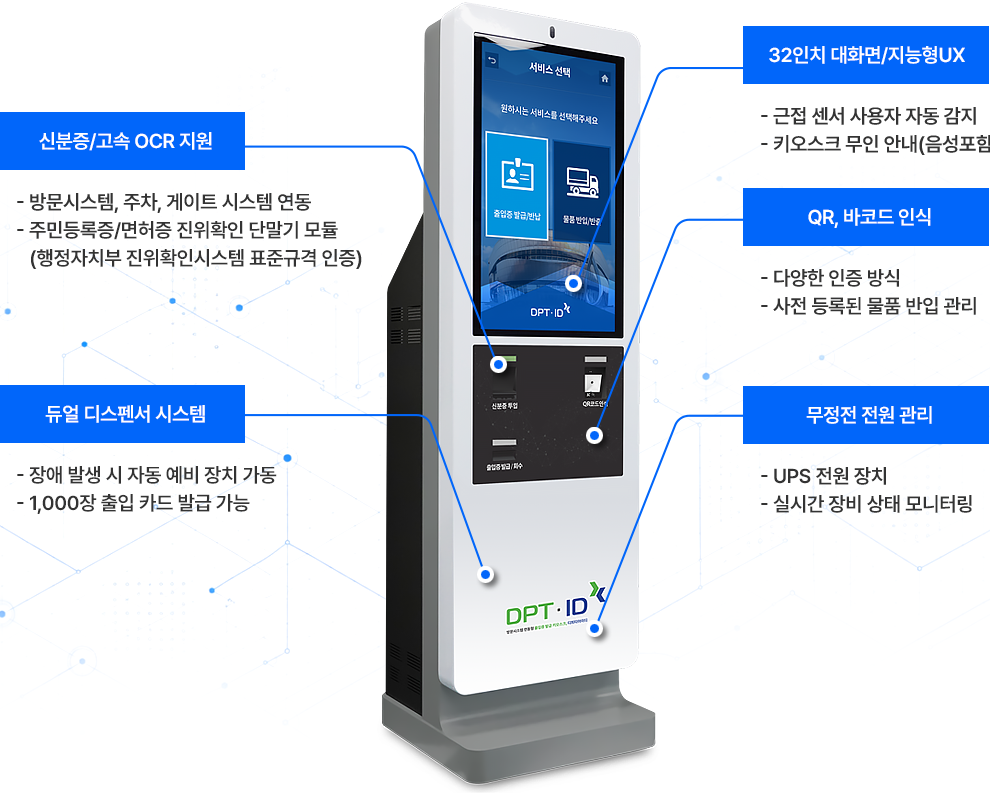
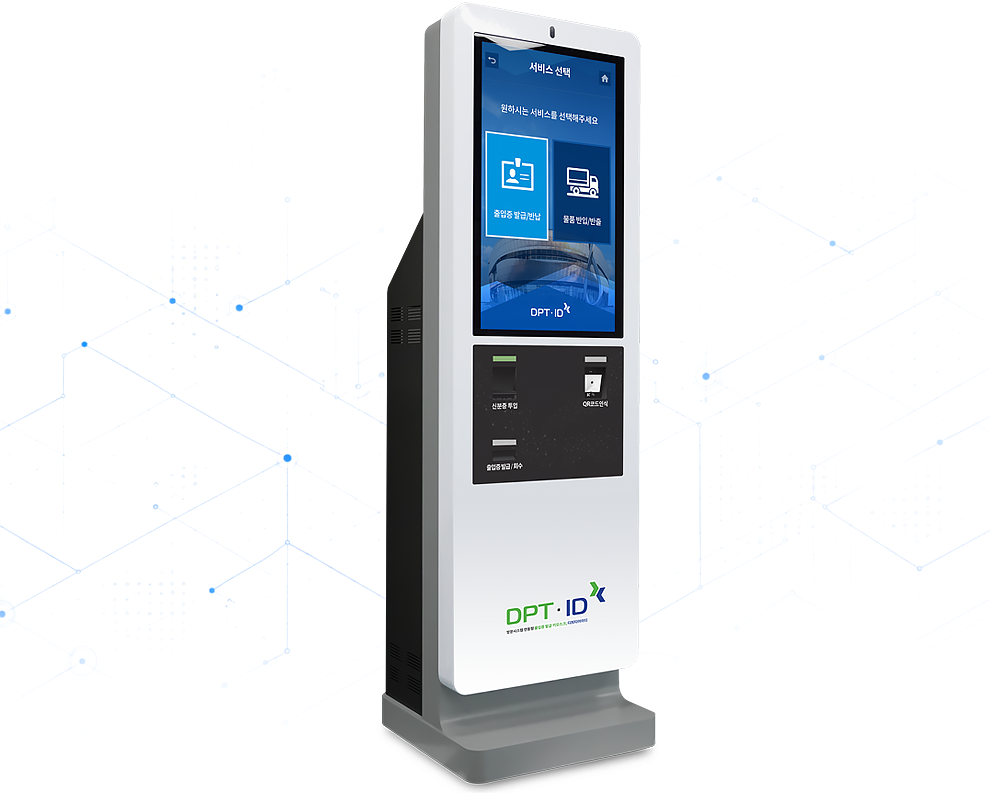
DptId 페이지: po_txt data-reveal 순차 등장, dptIdimgWrap 반응형 CSS 추가, 구분선 이미지 추가

diff --git a/apps/src/pages/product/DptId.tsx b/apps/src/pages/product/DptId.tsx
@@ -5,6 +5,7 @@ import 'swiper/css'
 import ProductLayout from './ProductLayout'
 import { useBatchReveal } from '../../utils/useScrollReveal'
 import prdDptiImg1 from '../../assets/images/img_dptid_con_1.png'
+import prdDptiImg1_line from '../../assets/images/img_dptid_con_1_bg.png'
 import prdDptiW2Ico from '../../assets/images/img_dpt_eraser_2.png'
 import prdDptiw3Img2 from '../../assets/images/img_dpt_eraser_3.png'
 import imgDpt8_1 from '../../assets/images/img_dpt_eraser8_1.png'
@@ -106,8 +107,45 @@ function ProductDptI() {
                     500여장의 출입 카드가 듀얼로 연결 운영되어 하나의 장치에 장애가 발생해도 예비 장치로 전환되어 발급 중단 사태를 방지할 수 있습니다.
                 </p>
                 <div className='max-width' data-reveal data-delay="400">
-                    <div className='ImgMargin2'>
-                        <img src={prdDptiImg1} alt="" />
+                    <div className='dptIdimgWrap'>
+                        <img src={prdDptiImg1} data-reveal data-delay="100" alt="" />
+                        <div className='line' data-reveal data-delay="200"><img src={prdDptiImg1_line} alt="" /></div>
+                        <div className='po_txt a' data-reveal data-delay="300">
+                            <div className='tit'>신분증/고속 OCR 지원</div>
+                            <div className='info'>
+                                - 방문시스템, 주차, 게이트 시스템 연동<br />
+                                - 주민등록증/면허증 진위확인 단말기 모듈<br />
+                                <span></span>(행정자치부 진위확인시스템 표준규격 인증)
+                            </div>
+                        </div>
+                        <div className='po_txt b' data-reveal data-delay="400">
+                            <div className='tit'>듀얼 디스펜서 시스템</div>
+                            <div className='info'>
+                                - 장애 발생 시 자동 예비 장치 가동<br />
+                                - 1,000장 출입 카드 발급 가능
+                            </div>
+                        </div>
+                        <div className='po_txt c' data-reveal data-delay="500">
+                            <div className='tit'>32인치 대화면/지능형UX</div>
+                            <div className='info'>
+                                - 근접 센서 사용자 자동 감지<br />
+                                - 키오스크 무인 안내(음성포함)
+                            </div>
+                        </div>
+                        <div className='po_txt d' data-reveal data-delay="600">
+                            <div className='tit'>QR, 바코드 인식</div>
+                            <div className='info'>
+                                - 다양한 인증 방식<br />
+                                - 사전 등록된 물품 반입 관리
+                            </div>
+                        </div>
+                        <div className='po_txt e' data-reveal data-delay="700">
+                            <div className='tit'>무정전 전원 관리</div>
+                            <div className='info'>
+                                - UPS 전원 장치<br />
+                                - 실시간 장비 상태 모니터링
+                            </div>
+                        </div>
                     </div>
                 </div>
                 <div className='imgCon' data-reveal>

diff --git a/apps/src/assets/css/style.css b/apps/src/assets/css/style.css
@@ -2792,8 +2792,7 @@ span.br { display:block }
 	#sub .contetns.prd.NewDpt-i .work3 .imgCon ul li p { margin:2rem 0 0 4rem; font-size:1.8rem; }
 }
 
-.ImgMargin { margin:5rem 0; }
-.ImgMargin2 { margin:5rem 0 5rem 2rem; }
+.ImgMargin { margin:5rem 0; position:relative; }
 
 .work-eraser { margin:0 0 10rem; }
 .ul-list-eraser { margin:3rem 0 0; background: url('../images/ico_eraser_new_bg.png') center 8rem / cover no-repeat; }
@@ -2826,6 +2825,30 @@ span.br { display:block }
     .ul-list-eraser ul li p { font-size:1.2rem; }
 }
 
+.dptIdimgWrap { margin:5rem 0 5rem 2rem; position:relative; }
+.dptIdimgWrap .po_txt { position:absolute; z-index:9; }
+.dptIdimgWrap .po_txt.a { top:12.5rem; left:0; }
+.dptIdimgWrap .po_txt.b { top:40.5rem; left:0; }
+.dptIdimgWrap .po_txt.c { top:3.5rem; right:14rem; }
+.dptIdimgWrap .po_txt.d { top:20rem; right:14rem; }
+.dptIdimgWrap .po_txt.e { top:41rem; right:14rem; }
+.dptIdimgWrap .po_txt .tit { width:25rem; height:6rem; display:flex; align-items: center; justify-content: center; background:#0166fa; font-size:2rem; font-weight:600; color:#fff; }
+.dptIdimgWrap .po_txt .info { margin:2rem 0 0 1rem; font-size:2rem; font-weight:600; color:#333; }
+.dptIdimgWrap .po_txt .info span { display:inline-block; width:1rem; }
+.dptIdimgWrap .line { position:absolute; z-index:7; top:7rem; left:23rem;  }
+
+@media all and (max-width:1023px) {
+    .dptIdimgWrap { margin:3rem 0; }
+    .dptIdimgWrap .po_txt { position:relative; z-index:auto; margin:3rem 0 2.5rem; }
+    .dptIdimgWrap .po_txt.a,
+    .dptIdimgWrap .po_txt.b,
+    .dptIdimgWrap .po_txt.c,
+    .dptIdimgWrap .po_txt.d,
+    .dptIdimgWrap .po_txt.e { top:auto; left:auto; right:auto; }
+    .dptIdimgWrap .po_txt .tit { width:100%; height:5rem; font-size:1.8rem; }
+    .dptIdimgWrap .po_txt .info { margin:1.2rem 0 0; font-size:1.7rem; }
+    .dptIdimgWrap .line { display:none; }
+}
 
 
 
